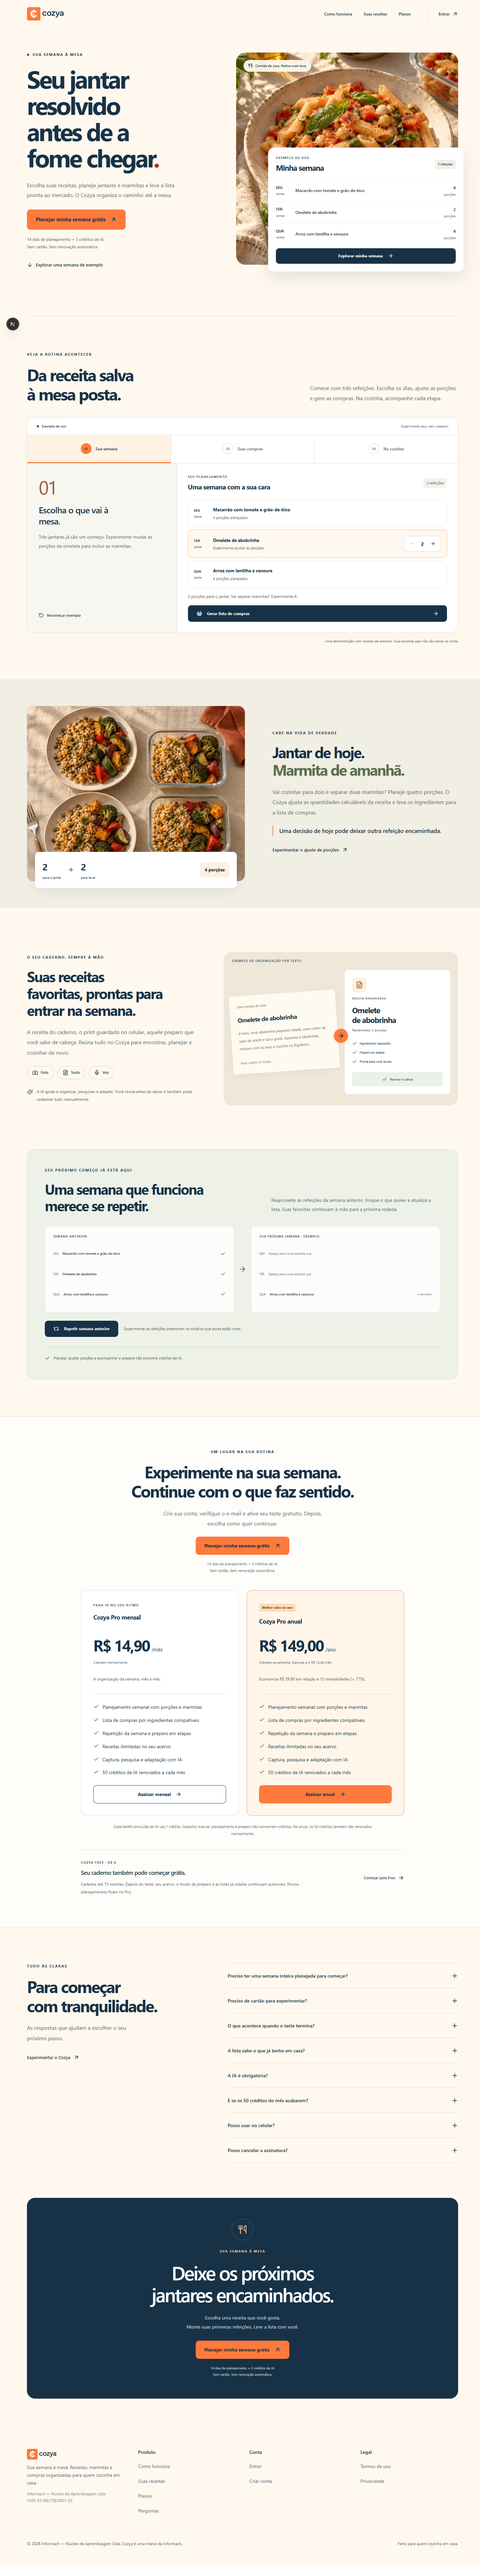
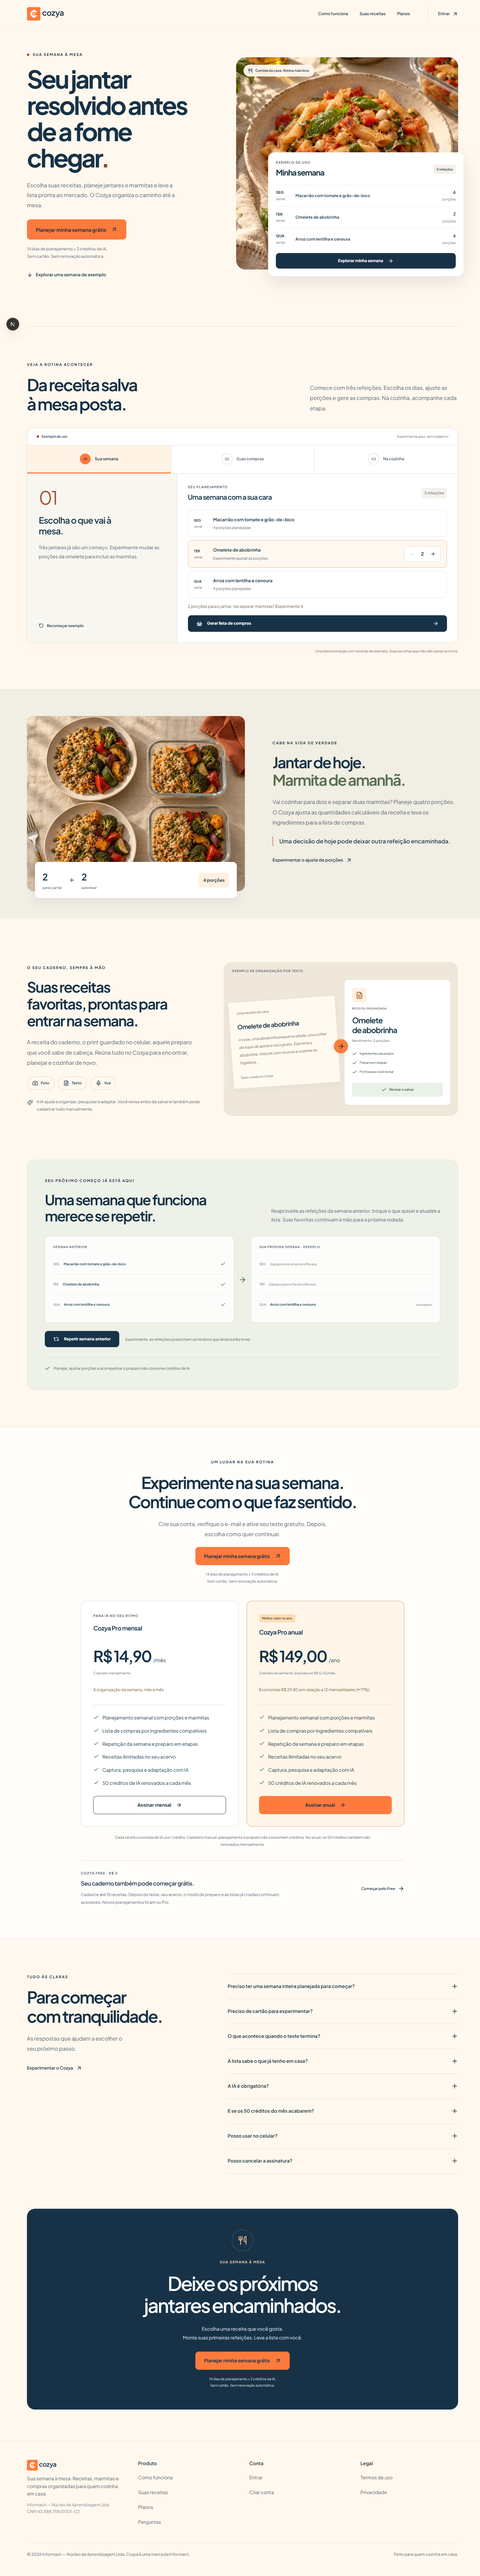
fix(cozya): resolve brand font tokens at document root

diff --git a/apps/cozya/e2e/marketing.spec.ts b/apps/cozya/e2e/marketing.spec.ts
@@ -66,6 +66,9 @@ test("landing works on small screens, with keyboard, reduced motion and a saved 
   await page.addInitScript(() => localStorage.setItem("theme", "dark"));
   await page.emulateMedia({ reducedMotion: "reduce" });
   await page.goto("/");
+  await expect
+    .poll(() => page.locator("h1").evaluate((heading) => getComputedStyle(heading).fontFamily))
+    .toContain("Plus Jakarta Sans");
   await page.keyboard.press("Tab");
   await expect(
     page.getByRole("link", { name: "Pular para o conteúdo", exact: true }),
@@ -84,8 +87,10 @@ test("landing works on small screens, with keyboard, reduced motion and a saved 
   for (const width of [320, 390, 768, 1440]) {
     await page.setViewportSize({ width, height: 900 });
     await expect
-      .poll(() => page.evaluate(() => document.documentElement.scrollWidth <= innerWidth))
-      .toBe(true);
+      .poll(() => page.evaluate(() => document.documentElement.scrollWidth), {
+        message: `Home content must fit a ${width}px viewport`,
+      })
+      .toBeLessThanOrEqual(width);
     const cta = page.locator("#primeiro-convite a");
     const measurements = await cta.evaluate((link) => ({
       height: link.getBoundingClientRect().height,

diff --git a/apps/cozya/src/app/layout.tsx b/apps/cozya/src/app/layout.tsx
@@ -42,8 +42,8 @@ export default async function RootLayout({ children }: { children: ReactNode }) 
   const nonce = (await headers()).get("x-nonce") ?? undefined;
 
   return (
-    <html lang="pt-BR" suppressHydrationWarning>
-      <body className={jakarta.variable} suppressHydrationWarning>
+    <html lang="pt-BR" className={jakarta.variable} suppressHydrationWarning>
+      <body suppressHydrationWarning>
         <ThemeProvider nonce={nonce}>
           {children}
           <Toaster />

diff --git a/apps/cozya/src/app/globals.css b/apps/cozya/src/app/globals.css
@@ -3,7 +3,7 @@
 
 @source "../../../../packages/ui/src/**/*.{ts,tsx}";
 
-/* Fonte local via next/font toma precedência sobre o fallback do tema. */
+/* A variável next/font também é aplicada no html para resolver estes tokens em :root. */
 :root {
   --font-sans: var(--font-jakarta), "Plus Jakarta Sans", ui-sans-serif, system-ui, sans-serif;
   --font-mono: var(--font-jakarta), "Plus Jakarta Sans", ui-monospace, monospace;

diff --git a/docs/proposals/cozya-home-2026-09-11/implementacao.md b/docs/proposals/cozya-home-2026-09-11/implementacao.md
@@ -37,6 +37,7 @@ O CTA fixo no rodapé móvel era opcional na proposta. A entrega usa os convites
 - Checkboxes têm a área inteira da linha como alvo. O foco por teclado permanece visível; as abas aceitam setas e recebem foco ao avançar de etapa.
 - Textos da interface demonstrativa foram ampliados após inspeção visual. Ingredientes não somáveis mostram a observação de conferência, incluindo a receita correspondente.
 - Links de navegação também funcionam quando acionados a partir de Termos ou Privacidade.
+- Na preparação da publicação, o CI detectou transbordamento em tela pequena. A investigação encontrou a variável da fonte em `body`, enquanto os tokens que dependem dela eram resolvidos em `:root`: a página usava a fonte do sistema operacional. A classe de `next/font` passou para `html`, onde os tokens conseguem resolvê-la. O teste adicional de fonte falhou antes da correção e passou depois; as capturas foram atualizadas. O teste de largura agora informa também o tamanho esperado e o valor medido, mantendo a mesma exigência de não transbordar.
 - Componentes e animações da antiga home sem uso foram retirados. A paleta da página é local ao marketing e preserva o tema do aplicativo e do onboarding.
 
 ## Imagens e limites da entrega
@@ -54,10 +55,10 @@ Verificações concluídas em 11/09/2026, após as últimas alterações funcion
 | Comando | Resultado | Código de saída |
 | --- | --- | --- |
 | `pnpm check` | 812 arquivos verificados, sem erros ou correções | 0 |
-| `pnpm typecheck` | 11 tarefas aprovadas, 10 reutilizadas do cache; Cozya executado novamente; 10,336 s | 0 |
-| `pnpm exec turbo test --concurrency=1` | 6 tarefas aprovadas, 5 reutilizadas do cache; Cozya executado novamente; 27,241 s | 0 |
-| `pnpm --filter @informach/cozya e2e` | 7 testes de navegador aprovados, em 53,7 s | 0 |
-| `pnpm exec turbo build --concurrency=1 --cache=local:r` | 4 aplicativos compilados, sem cache de tarefas; 3 min 16,91 s | 0 |
+| `pnpm typecheck` | 11 tarefas aprovadas, 6 reutilizadas do cache; Cozya executado novamente; 12,438 s | 0 |
+| `pnpm exec turbo test --concurrency=1` | 6 tarefas aprovadas, 5 reutilizadas do cache; Cozya executado novamente; 9,635 s | 0 |
+| `pnpm --filter @informach/cozya e2e` | 7 testes de navegador aprovados, em 55,7 s | 0 |
+| `pnpm exec turbo build --concurrency=1 --cache=local:r` | 4 aplicativos compilados, sem cache de tarefas; 3 min 24,943 s | 0 |
 | `git diff --check` | Nenhum erro de espaços em branco | 0 |
 | `git diff --exit-code -- packages/config/src/products.ts packages/billing/src/seeds/credit-pricing.ts` | Catálogo e preços de créditos sem alterações | 0 |
 
